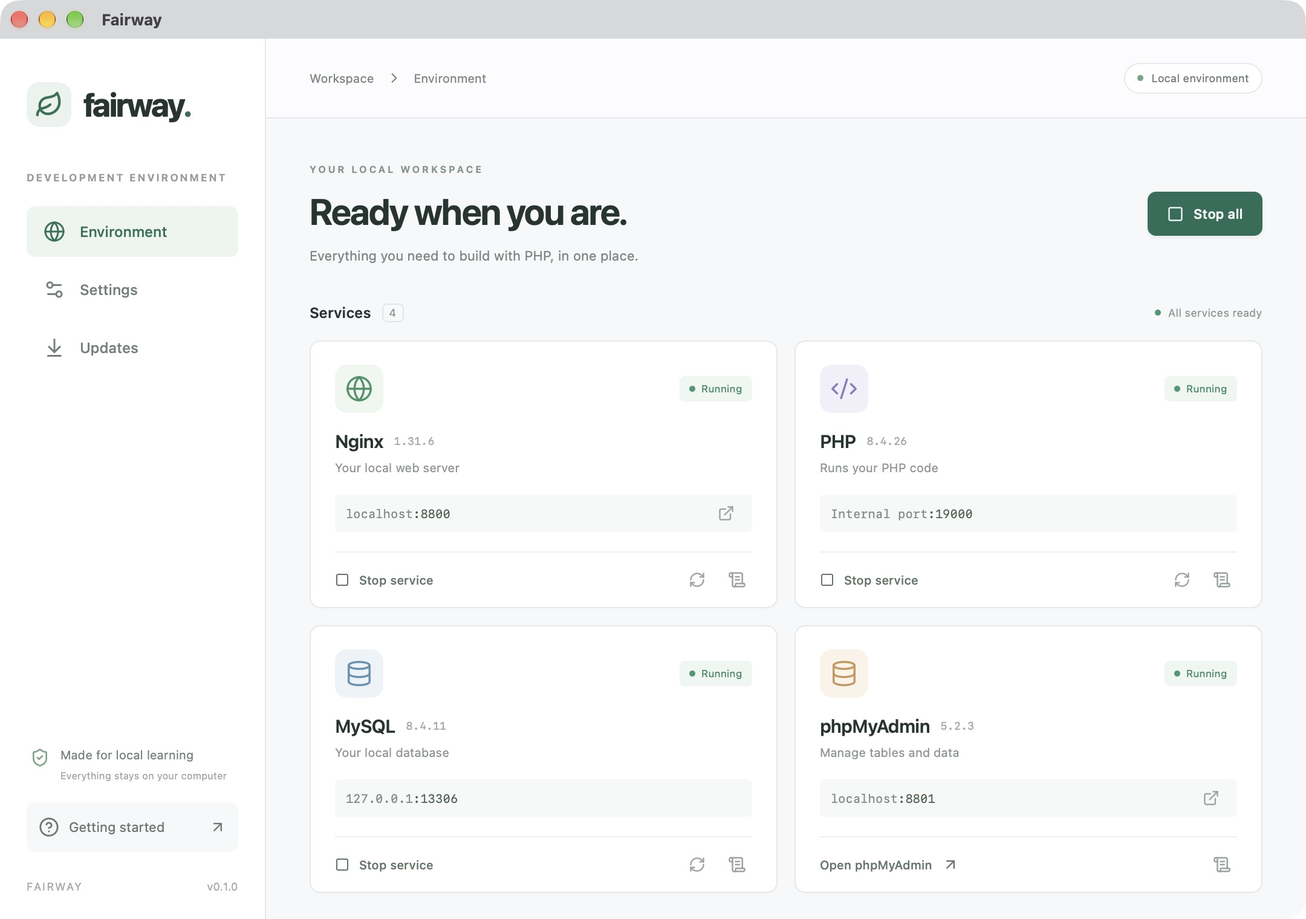
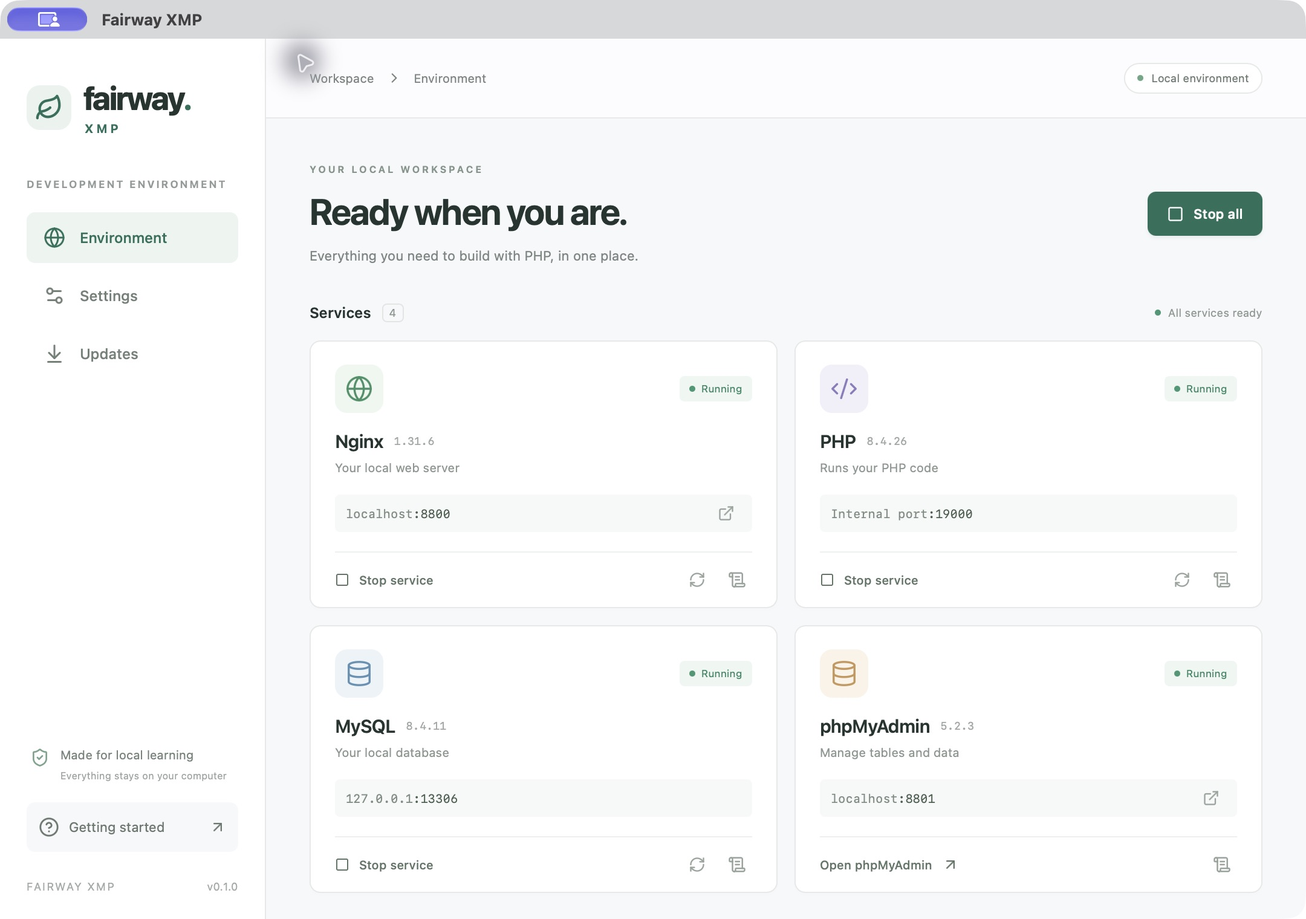
Use Fairway XMP branding on macOS and Windows

diff --git a/src/styles.css b/src/styles.css
@@ -1,3 +1,5 @@
 :root{font-family:Inter,-apple-system,BlinkMacSystemFont,"Segoe UI",sans-serif;color:#25342f;background:#f7f8fa;font-synthesis:none;font-size:13px;line-height:1.5;font-weight:400;--green:#23715b;--muted:#7b8581;--border:#e5e9e7}
 *{box-sizing:border-box}body{margin:0}button,input{font:inherit}button{cursor:pointer;display:inline-flex;align-items:center;justify-content:center;gap:8px;transition:background .15s,color .15s;border:0}button:disabled{opacity:.4;cursor:not-allowed}button:focus-visible,a:focus-visible,summary:focus-visible,input:focus-visible{outline:3px solid #91c7b4;outline-offset:3px}button:not(:disabled):hover{filter:brightness(.97)}a{color:inherit;text-decoration:none}h1,h2,h3,p{margin:0}h2{font-size:14px;font-weight:600}code{font:12px/1.7 ui-monospace,SFMono-Regular,Consolas,monospace}svg{flex-shrink:0}.app-shell{display:flex;min-height:100vh}.sidebar{width:220px;flex-shrink:0;background:#fff;border-right:1px solid var(--border);display:flex;flex-direction:column;padding:34px 22px 20px;position:fixed;height:100vh}.brand{display:flex;align-items:center;gap:10px;font-size:27px;font-weight:720;letter-spacing:-1.4px}.brand-mark{background:#eaf3ef;color:var(--green);width:37px;height:37px;display:grid;place-items:center;border-radius:11px;letter-spacing:0}.brand-period{color:var(--green)}.sidebar-label{font-size:8.5px;letter-spacing:1.3px;color:#929b97;margin:34px 0 17px;font-weight:650;white-space:nowrap}nav{display:flex;flex-direction:column;gap:6px}.nav-item{justify-content:flex-start;padding:12px 14px;border-radius:7px;background:transparent;color:#738078;font-weight:500;font-size:12px;gap:12px}.nav-item.active{background:#edf4f0;color:var(--green)}.sidebar-bottom{margin-top:auto}.local-badge{display:flex;gap:9px;color:#75827a;font-size:10px;padding:16px 3px;align-items:flex-start}.local-badge svg{color:#79a38d;margin-top:2px}.local-badge span{display:block;font-size:8px;margin-top:4px;color:#9aa29e}.help-button{width:100%;padding:12px 10px;background:#f7f8f9;border-radius:7px;color:#6a776f;font-size:11px;justify-content:flex-start}.help-button svg:last-child{margin-left:auto}.sidebar-footer{margin-top:22px;font-size:9px;letter-spacing:1px;color:#a3aaa6;display:flex;justify-content:space-between}.sidebar-footer span{letter-spacing:0}main{flex:1;margin-left:220px;min-width:0}.topbar{height:66px;border-bottom:1px solid var(--border);display:flex;align-items:center;justify-content:space-between;padding:0 36px;background:#ffffff9c;font-size:10px;color:#7b8581}.topbar>span:first-child{display:flex;align-items:center;gap:10px}.local-pill{display:flex;align-items:center;gap:7px;border:1px solid #e5eae7;border-radius:20px;background:#fff;padding:5px 10px;color:#6b7a71;font-size:9px}.local-pill>span{width:5px;height:5px;border-radius:50%;background:#69a786}.main-content{max-width:1100px;margin:0 auto;padding:36px}.page-heading{display:flex;align-items:center;justify-content:space-between;gap:20px;margin-bottom:30px}.eyebrow{font-size:8px;letter-spacing:1.7px;color:#82948a;font-weight:650;margin-bottom:9px}h1{font-size:30px;font-weight:650;letter-spacing:-1.1px;line-height:1.3}.page-heading p{font-size:11px;color:var(--muted);margin-top:9px}.primary{background:var(--green);color:white;border-radius:7px;padding:10px 16px;font-size:11px;font-weight:550;white-space:nowrap;min-height:36px;box-shadow:0 2px 3px #1e654c13}.secondary{background:#fff;border:1px solid #dfe5e1;color:#53665a;border-radius:6px;padding:8px 12px;font-size:10px;font-weight:550;min-height:33px;white-space:nowrap}.section-heading{display:flex;align-items:center;justify-content:space-between;margin-bottom:14px}.section-heading h2{display:flex;gap:9px;align-items:center;font-size:12px}.section-heading h2>span{font-size:9px;font-weight:400;border:1px solid #e1e6e3;border-radius:4px;padding:0 5px;color:#8b958f}.stack-status{display:flex;align-items:center;gap:6px;font-size:9px;color:#8d9791}.status-dot{display:inline-block;width:5px;height:5px;background:#afb9b2;border-radius:50%;flex-shrink:0}.status-dot.running{background:#3b9874}.status-dot.pending{background:#c79a44}.services-grid{display:grid;grid-template-columns:repeat(2,minmax(0,1fr));gap:14px}.service-card{background:#fff;border:1px solid var(--border);border-radius:9px;padding:19px 20px 0;box-shadow:0 2px 3px #253b2e02;overflow:hidden}.service-top{display:flex;align-items:center;justify-content:space-between;margin-bottom:12px}.service-icon{width:40px;height:40px;border-radius:10px;display:grid;place-items:center}.service-icon.green{background:#eef7f1;color:#409267}.service-icon.purple{background:#f1eff9;color:#8b7cbc}.service-icon.blue{background:#edf3f9;color:#6092b5}.service-icon.orange{background:#fbf3e9;color:#c79858}.status-label{font-size:8.5px;color:#909a94;background:#f5f6f7;padding:4px 8px;border-radius:4px;display:inline-flex;align-items:center;gap:5px;white-space:nowrap}.status-label.ready{color:#2b8764;background:#eff7f2}.status-label.pending{color:#ad8230;background:#fbf5e8}.service-name{display:flex;align-items:center;gap:9px}.service-name h3{font-size:15px;font-weight:600;letter-spacing:-.3px}.service-name>span{font:9px ui-monospace,monospace;color:#a0a7a3}.service-card>p{font-size:10px;color:#8c9690;margin-top:3px}.service-address{background:#f7f9f8;display:flex;align-items:center;justify-content:space-between;font:10px ui-monospace,monospace;color:#7d8c82;margin:15px 0 16px;height:31px;padding:0 9px;border-radius:4px}.address-port{color:#495f50}.icon-button{padding:4px;background:transparent;color:#98a39b;border-radius:4px;min-width:25px;min-height:25px}.service-actions{display:flex;align-items:center;border-top:1px solid #eef0ef;padding:10px 0;gap:8px}.service-start{justify-content:flex-start;margin-right:auto;background:transparent;color:#617568;font-size:10px;font-weight:500;padding:3px 0}.service-error{font-size:10px;color:#a15142;margin:0 0 12px;overflow-wrap:anywhere}.workspace-card{display:flex;align-items:center;gap:15px;background:#fff;border:1px solid var(--border);border-radius:9px;padding:21px;margin-top:22px}.workspace-icon{display:grid;place-items:center;width:45px;height:45px;border-radius:10px;background:#f1f4f2;color:#8da48f;flex-shrink:0}.workspace-details{flex:1;min-width:0}.workspace-details h2{font-size:12px}.workspace-details p{font-size:10px;color:#8b9790;margin:4px 0 7px}.workspace-details code{font-size:10px;color:#5e7866;display:block;overflow:hidden;text-overflow:ellipsis;white-space:nowrap}.bottom-grid{display:grid;grid-template-columns:1.08fr 1fr;gap:14px;margin-top:14px}.connection-card,.terminal-card{background:#fff;border:1px solid var(--border);border-radius:9px;padding:20px}.card-title{display:flex;align-items:center;justify-content:space-between;gap:12px;margin-bottom:15px}.card-title h2{display:flex;align-items:center;gap:8px;font-size:11px}.card-title h2 svg{color:#9bac9f}dl{margin:0}dl>div{display:flex;justify-content:space-between;align-items:center;gap:15px;margin-top:8px;font-size:10px}dt{color:#8a968e}dd{margin:0;color:#586d5e;font-family:ui-monospace,monospace;font-size:10px}.port-inline{color:#9aa69f}.text-link{margin-top:15px;background:transparent;font-size:9px;color:#6a8874;justify-content:flex-start;padding:0}.terminal-card{position:relative;background:#f0f5f2;overflow:hidden;border-color:#e2ebe5}.terminal-symbol{position:absolute;right:20px;top:20px;color:#a2b8aa}.terminal-card h2{font-size:12px;margin-top:2px}.terminal-card p{font-size:10px;color:#819589;line-height:1.8;margin:9px 0 16px}.terminal-card .secondary{background:#ffffff8a;border-color:#d7e4db}.content-footer{display:flex;align-items:center;justify-content:space-between;font-size:8px;color:#9aa59e;margin-top:25px}.content-footer>span{display:flex;align-items:center;gap:6px}.content-footer button{background:transparent;font-size:8px;color:#92a097;gap:7px}.notice,.preview-banner{padding:11px 14px;border:1px solid #dbe5df;border-radius:7px;background:#eef4f0;color:#52705e;display:flex;gap:9px;align-items:center;font-size:11px;margin-bottom:20px;overflow-wrap:anywhere}.notice>span{flex:1;white-space:pre-line}.notice button{background:transparent;color:inherit;padding:2px}.notice.error{background:#fff4ef;border-color:#ecd7cc;color:#9a5946}.notice.success{background:#eff7f1;border-color:#d5e9db;color:#367454}.preview-banner{background:#f0f3f8;border-color:#dfe5ef;color:#738199;font-size:10px;padding:8px 12px}.settings-card{background:#fff;border:1px solid var(--border);border-radius:9px;padding:24px;margin-bottom:18px}.settings-card>h2{margin-bottom:8px}.settings-card p{color:#809086;font-size:11px;line-height:1.8;margin:10px 0 18px}.port-fields{display:grid;grid-template-columns:repeat(3,1fr);gap:16px;margin:20px 0}.port-fields label{display:flex;flex-direction:column;gap:9px}.port-fields label>span,.advanced label>span{font-weight:550;font-size:11px}.port-fields small,.advanced small{display:block;color:#93a097;font-weight:400;font-size:9px;margin-top:3px}input{border:1px solid #dce5df;border-radius:6px;background:#f8faf9;padding:8px 10px;color:#486351;width:100%;font-family:ui-monospace,monospace;font-size:12px}input:disabled{color:#97a69c;background:#f4f6f5}.advanced{margin:0 0 20px;font-size:11px;color:#7a8a7f}.advanced summary{cursor:pointer;margin-bottom:13px}.advanced label{display:flex;gap:20px;align-items:center;justify-content:space-between}.advanced input{max-width:150px}.settings-card .settings-hint,.settings-hint{font-size:10px;color:#96a29b;line-height:1.7}.path-list>div{align-items:flex-start;flex-direction:column;gap:3px;margin-bottom:15px}.path-list dd{overflow-wrap:anywhere}.path-list dt{font-size:10px}.button-row{display:flex;gap:10px}.runtime-list{display:grid;grid-template-columns:1fr 1fr;gap:15px;padding:20px 0;border-top:1px solid #edf0ee;border-bottom:1px solid #edf0ee}.runtime-list>div{display:flex;justify-content:space-between;gap:10px;font-size:11px}.runtime-list code{font-size:10px;color:#85998c}.update-available{background:#eef6f0;border-radius:7px;padding:17px;margin-top:20px}.update-available h3{font-size:13px}.release-notes{white-space:pre-line}.operation-status{position:fixed;bottom:20px;left:calc(50% + 110px);transform:translateX(-50%);background:#253d31;color:#fff;padding:10px 17px;border-radius:30px;box-shadow:0 5px 20px #253d3120;font-size:11px;display:flex;align-items:center;gap:10px;z-index:15}.spin{animation:spin 1s linear infinite}@keyframes spin{to{transform:rotate(360deg)}}.modal-backdrop{position:fixed;inset:0;background:#18352955;backdrop-filter:blur(3px);z-index:20;display:grid;place-items:center;padding:30px}.modal{background:#fff;border-radius:12px;box-shadow:0 20px 60px #13291b30;padding:24px;max-width:720px;width:100%;max-height:85vh;overflow:auto}.modal .card-title h2{font-size:16px}.modal p{font-size:12px;color:#7b8c80;line-height:1.8;margin-top:15px}.log-output{background:#f3f6f4;border:1px solid #e5ece7;padding:15px;border-radius:7px;font:11px/1.8 ui-monospace,monospace;max-height:50vh;overflow:auto;white-space:pre-wrap;overflow-wrap:anywhere;color:#5f7566}.help-steps{font-size:12px;color:#6d8173;padding-left:23px;line-height:2.3}.help-steps code{background:#eff4f1;padding:2px 4px;border-radius:3px}@media(min-width:1250px){.main-content{padding:42px 48px}.services-grid{gap:18px}.service-card{padding:23px 25px 0}.service-address{margin-top:20px}.workspace-card{padding:25px}.bottom-grid>section{padding:24px}}@media(max-width:900px){.sidebar{width:180px;padding:27px 16px 16px}main{margin-left:180px}.main-content{padding:27px 24px}.topbar{padding:0 24px}.sidebar-label{font-size:7px;letter-spacing:1px}h1{font-size:26px}.service-card{padding:16px 16px 0}.local-badge span{font-size:7px}.page-heading p{font-size:10px}.operation-status{left:calc(50% + 90px)}}@media(max-width:650px){.sidebar{width:64px;padding:20px 9px}.brand{justify-content:center}.brand>span:last-child,.sidebar-label,.sidebar-bottom,.nav-item{font-size:0}.brand-mark{width:34px;height:34px}.sidebar nav{margin-top:30px}.nav-item{padding:12px;gap:0}.nav-item svg{width:19px}main{margin-left:64px}.main-content{padding:24px 18px}.services-grid,.bottom-grid{grid-template-columns:1fr}.local-pill{display:none}.page-heading{align-items:flex-start}.page-heading .primary{padding:9px 11px}.workspace-card{flex-wrap:wrap}.workspace-card .secondary{margin-left:60px}.port-fields{grid-template-columns:1fr}.content-footer{align-items:flex-start;gap:10px}.operation-status{left:calc(50% + 32px)}.topbar{padding:0 18px}.stack-status{font-size:8px}}
 @media(prefers-reduced-motion:reduce){*,*::before,*::after{animation-duration:.01ms!important;transition:none!important}}
+
+.brand-name{position:relative;line-height:1.1;padding-bottom:16px}.brand-edition{position:absolute;bottom:0;left:1px;font-size:10px;font-weight:650;letter-spacing:2.5px;color:var(--green)}@media(max-width:650px){.brand-edition{display:none}}

diff --git a/src/App.tsx b/src/App.tsx
@@ -110,8 +110,8 @@ export default function App() {
 
   return <div className="app-shell">
     <aside className="sidebar">
-      <a className="brand" href="#" onClick={event => { event.preventDefault(); setView('environment'); }} aria-label="Fairway home">
-        <span className="brand-mark"><Leaf size={23} strokeWidth={2.2} /></span><span>fairway<span className="brand-period">.</span></span>
+      <a className="brand" href="#" onClick={event => { event.preventDefault(); setView('environment'); }} aria-label="Fairway XMP home">
+        <span className="brand-mark"><Leaf size={23} strokeWidth={2.2} /></span><span className="brand-name">fairway<span className="brand-period">.</span><span className="brand-edition">XMP</span></span>
       </a>
       <div className="sidebar-label">DEVELOPMENT ENVIRONMENT</div>
       <nav aria-label="Main navigation">
@@ -122,7 +122,7 @@ export default function App() {
       <div className="sidebar-bottom">
         <div className="local-badge"><ShieldCheck size={16} /><div>Made for local learning<span>Everything stays on your computer</span></div></div>
         <button className="help-button" onClick={() => setHelp(true)}><CircleHelp size={17} />Getting started<ArrowUpRight size={14} /></button>
-        <div className="sidebar-footer">FAIRWAY <span>v{data.version}</span></div>
+        <div className="sidebar-footer">FAIRWAY XMP <span>v{data.version}</span></div>
       </div>
     </aside>
 
@@ -139,7 +139,7 @@ export default function App() {
             const service = data.services.find(s => s.id === id)!;
             return <ServiceCard key={id} service={service} version={versions?.[meta[id].version]} disabled={!usable} busy={!!busy} onAction={serviceAction} onOpen={open} onLog={showLog} />;
           })}</div>
-          {isDesktop && !data.runtimeReady && <div className="notice error" role="alert">Fairway’s PHP or database files are missing. Reinstall Fairway to restore them. Your projects and database data will be kept.</div>}
+          {isDesktop && !data.runtimeReady && <div className="notice error" role="alert">Fairway XMP’s PHP or database files are missing. Reinstall Fairway XMP to restore them. Your projects and database data will be kept.</div>}
 
           <div className="workspace-card">
             <div className="workspace-icon"><FolderOpen size={23} /></div>
@@ -166,15 +166,15 @@ export default function App() {
               <button className="primary" disabled={!isDesktop || anyRunning || !!busy} type="submit">Save ports</button>
             </form>
           </section>
-          <section className="settings-card"><div className="card-title"><h2>Command-line tools</h2><span className={`status-label ${data.pathInstalled ? 'ready' : ''}`}>{data.pathInstalled ? 'Enabled' : 'Not enabled'}</span></div><p>Add PHP and Composer to your user PATH. Restart existing terminals and VS Code after changes.</p><dl className="path-list"><div><dt>Current PHP</dt><dd>{data.pathPhp ?? 'Not found'}</dd></div><div><dt>Current Composer</dt><dd>{data.pathComposer ?? 'Not found'}</dd></div></dl><p className="settings-hint">If an older PHP installation appears here, close and reopen Fairway and your terminal. “Open terminal” uses Fairway’s PHP and Composer.</p><button className="secondary" disabled={!isDesktop || !!busy || (!data.pathInstalled && !data.runtimeReady)} onClick={() => { void run('Updating user PATH…', async () => {
+          <section className="settings-card"><div className="card-title"><h2>Command-line tools</h2><span className={`status-label ${data.pathInstalled ? 'ready' : ''}`}>{data.pathInstalled ? 'Enabled' : 'Not enabled'}</span></div><p>Add PHP and Composer to your user PATH. Restart existing terminals and VS Code after changes.</p><dl className="path-list"><div><dt>Current PHP</dt><dd>{data.pathPhp ?? 'Not found'}</dd></div><div><dt>Current Composer</dt><dd>{data.pathComposer ?? 'Not found'}</dd></div></dl><p className="settings-hint">If an older PHP installation appears here, close and reopen Fairway XMP and your terminal. “Open terminal” uses Fairway XMP’s PHP and Composer.</p><button className="secondary" disabled={!isDesktop || !!busy || (!data.pathInstalled && !data.runtimeReady)} onClick={() => { void run('Updating user PATH…', async () => {
             setData(await invoke<Snapshot>('cli_integration', { enabled: !data.pathInstalled })); setNotice({ kind: 'success', text: 'Command-line integration updated. Reopen your terminals and VS Code.' });
           }); }}>{data.pathInstalled ? 'Remove from user PATH' : 'Enable PHP and Composer'}</button></section>
           <section className="settings-card"><h2>Your files</h2><dl className="path-list"><div><dt>Document root</dt><dd>{data.documentRoot}</dd></div><div><dt>Settings and database data</dt><dd>{data.dataDir}</dd></div></dl><div className="button-row"><button className="secondary" disabled={!isDesktop || !!busy} onClick={() => open('logs')}><ScrollText size={15} />Open logs</button><button className="secondary" disabled={!isDesktop || !!busy} onClick={() => open('backups')}><FolderOpen size={15} />Open backups</button></div></section>
         </>}
 
         {view === 'updates' && <>
-          <div className="page-heading"><div><div className="eyebrow">KEEP YOUR TOOLS CURRENT</div><h1>A dependable environment.</h1><p>Tested updates for Fairway and your bundled tools.</p></div></div>
-          <section className="settings-card"><div className="card-title"><h2>Fairway {data.version}</h2><span className="status-label">Installed version</span></div><div className="runtime-list">{['php', 'nginx', 'mysql', 'phpmyadmin', 'composer'].map(name => <div key={name}><span>{name === 'php' ? 'PHP' : name === 'mysql' ? 'MySQL' : name === 'phpmyadmin' ? 'phpMyAdmin' : name === 'nginx' ? 'Nginx' : 'Composer'}</span><code>{versions?.[name] ?? 'Unavailable'}</code></div>)}</div><p>Updates are installed when you choose. Your projects and database data are preserved. Before installation, Fairway backs up student databases and stops its services.</p><button className="primary" disabled={!isDesktop || !!busy} onClick={() => { void run('Checking for updates…', async () => {
+          <div className="page-heading"><div><div className="eyebrow">KEEP YOUR TOOLS CURRENT</div><h1>A dependable environment.</h1><p>Tested updates for Fairway XMP and your bundled tools.</p></div></div>
+          <section className="settings-card"><div className="card-title"><h2>Fairway XMP {data.version}</h2><span className="status-label">Installed version</span></div><div className="runtime-list">{['php', 'nginx', 'mysql', 'phpmyadmin', 'composer'].map(name => <div key={name}><span>{name === 'php' ? 'PHP' : name === 'mysql' ? 'MySQL' : name === 'phpmyadmin' ? 'phpMyAdmin' : name === 'nginx' ? 'Nginx' : 'Composer'}</span><code>{versions?.[name] ?? 'Unavailable'}</code></div>)}</div><p>Updates are installed when you choose. Your projects and database data are preserved. Before installation, Fairway XMP backs up student databases and stops its services.</p><button className="primary" disabled={!isDesktop || !!busy} onClick={() => { void run('Checking for updates…', async () => {
             const result = await invoke<UpdateInfo>('check_update'); setUpdate(result);
             if (result.configured && !result.version) setNotice({ kind: 'success', text: 'You’re using the latest available release.' });
           }); }}><RefreshCw size={15} />Check for updates</button>
@@ -188,7 +188,7 @@ export default function App() {
     </main>
 
     {log && <Modal title={`${meta[log.service].name} logs`} onClose={() => setLog(null)}><pre className="log-output">{log.text}</pre><button className="secondary" disabled={!!busy} onClick={() => showLog(log.service)}><RefreshCw size={15} />Refresh log</button></Modal>}
-    {help && <Modal title="Your first PHP project" onClose={() => setHelp(false)}><ol className="help-steps"><li>Click <strong>Start all</strong> and wait for the services to become ready.</li><li>Open your coursework folder: <code>fairway/www</code>.</li><li>Create a folder called <code>lesson-01</code> and add an <code>index.php</code> file.</li><li>Open <code>http://127.0.0.1:{data.ports.website}/lesson-01/</code> in your browser.</li></ol><p>Log into phpMyAdmin with username <code>fairway</code> and password <code>fairway</code>. Reopen your terminal after installation to use PHP and Composer. If they are unavailable, enable them in Settings.</p><p className="settings-hint">Quitting Fairway stops its services. Minimize the window to keep working.</p></Modal>}
+    {help && <Modal title="Your first PHP project" onClose={() => setHelp(false)}><ol className="help-steps"><li>Click <strong>Start all</strong> and wait for the services to become ready.</li><li>Open your coursework folder: <code>fairway/www</code>.</li><li>Create a folder called <code>lesson-01</code> and add an <code>index.php</code> file.</li><li>Open <code>http://127.0.0.1:{data.ports.website}/lesson-01/</code> in your browser.</li></ol><p>Log into phpMyAdmin with username <code>fairway</code> and password <code>fairway</code>. Reopen your terminal after installation to use PHP and Composer. If they are unavailable, enable them in Settings.</p><p className="settings-hint">Quitting Fairway XMP stops its services. Minimize the window to keep working.</p></Modal>}
   </div>;
 }
 

diff --git a/src/bridge.ts b/src/bridge.ts
@@ -21,13 +21,13 @@ export const preview: Snapshot = {
     { id: 'mysql', running: false, ready: false, port: 13306, pid: null, message: null },
     { id: 'phpmyadmin', running: false, ready: false, port: 8801, pid: null, message: null },
   ],
-  documentRoot: '~/fairway/www', dataDir: 'Fairway application data',
+  documentRoot: '~/fairway/www', dataDir: 'Fairway XMP application data',
   runtimeReady: false, runtimeVersions: null, pathInstalled: false,
   pathPhp: null, pathComposer: null, version: '0.1.0',
 };
 
 export function invoke<T>(command: string, args?: Record<string, unknown>): Promise<T> {
-  if (!window.__TAURI_INTERNALS__) return Promise.reject(new Error('Open the Fairway desktop app to use this control.'));
+  if (!window.__TAURI_INTERNALS__) return Promise.reject(new Error('Open the Fairway XMP desktop app to use this control.'));
   return window.__TAURI_INTERNALS__.invoke<T>(command, args);
 }
 

diff --git a/index.html b/index.html
@@ -4,7 +4,7 @@
     <meta charset="UTF-8" />
     <meta name="viewport" content="width=device-width, initial-scale=1.0" />
     <meta name="theme-color" content="#f5f6f8" />
-    <title>Fairway — Development Environment</title>
+    <title>Fairway XMP — Development Environment</title>
   </head>
   <body>
     <div id="root"></div>

diff --git a/src-tauri/src/desktop.rs b/src-tauri/src/desktop.rs
@@ -23,7 +23,7 @@ async fn access<T: Send + 'static>(
     tauri::async_runtime::spawn_blocking(move || {
         let mut manager = state
             .lock()
-            .map_err(|_| "The service manager is unavailable. Restart Fairway.")?;
+            .map_err(|_| "The service manager is unavailable. Restart Fairway XMP.")?;
         f(&mut manager)
     })
     .await
@@ -207,7 +207,7 @@ pub fn maintenance(args: &[String]) -> Result<bool> {
                 })?;
                 if crate::process::pid_alive(pid) {
                     return Err(
-                        "Open Fairway, stop all services, and quit before uninstalling.".into(),
+                        "Open Fairway XMP, stop all services, and quit before uninstalling.".into(),
                     );
                 }
                 std::fs::remove_file(path).map_err(|e| e.to_string())?;
@@ -221,7 +221,7 @@ pub fn maintenance(args: &[String]) -> Result<bool> {
             integration::remove(&layout)?;
             // Refuse cleanup while an owned server may still be using the data directory.
             if layout.data.join("mysql.pid").exists() || layout.data.join("nginx.pid").exists() {
-                return Err("Open Fairway and stop all services before deleting data.".into());
+                return Err("Open Fairway XMP and stop all services before deleting data.".into());
             }
             if layout.data.exists() {
                 std::fs::remove_dir_all(&layout.data).map_err(|e| e.to_string())?;
@@ -322,7 +322,7 @@ pub fn run() {
             }
         })
         .build(tauri::generate_context!())
-        .expect("Fairway could not initialize");
+        .expect("Fairway XMP could not initialize");
     app.run(move |app, event| {
         if let tauri::RunEvent::ExitRequested { api, code, .. } = event {
             if code == Some(tauri::RESTART_EXIT_CODE) {

diff --git a/src-tauri/resources/welcome.php b/src-tauri/resources/welcome.php
@@ -1,4 +1,4 @@
 <!doctype html>
-<html lang="en"><head><meta charset="utf-8"><meta name="viewport" content="width=device-width,initial-scale=1"><title>Welcome to Fairway</title>
+<html lang="en"><head><meta charset="utf-8"><meta name="viewport" content="width=device-width,initial-scale=1"><title>Welcome to Fairway XMP</title>
 <style>body{font:17px/1.7 system-ui;background:#f5f6f8;color:#182431;margin:0;padding:10vh 8vw}main{max-width:680px;margin:auto}b{color:#16765c}h1{font-size:48px;line-height:1.1;letter-spacing:-2px}code{background:#e6ece9;padding:3px 7px;border-radius:5px}small{color:#68756e}</style></head>
 <body><main><b>fairway / www</b><h1>Your environment<br>is ready.</h1><p>Create a folder in <code>fairway/www</code>, add an <code>index.php</code>, and open that folder’s name in your browser.</p><p>For example: <code>http://127.0.0.1:<?= (int) $_SERVER['SERVER_PORT'] ?>/lesson-01/</code></p><small>PHP <?= htmlspecialchars(PHP_VERSION, ENT_QUOTES, 'UTF-8') ?> · Welcome to your first project.</small></main></body></html>

diff --git a/src-tauri/src/integration.rs b/src-tauri/src/integration.rs
@@ -203,10 +203,9 @@ fn read_profile(file: &Path) -> Result<String> {
 pub fn profile_with_block(previous: &str, block: Option<&str>) -> Result<String> {
     let mut text = previous.to_string();
     while let Some(start) = text.find(BEGIN) {
-        let end = text[start..]
-            .find(END)
-            .ok_or("The existing Fairway PATH block is incomplete; repair it before continuing.")?
-            + start
+        let end = text[start..].find(END).ok_or(
+            "The existing Fairway XMP PATH block is incomplete; repair it before continuing.",
+        )? + start
             + END.len();
         let end = if text[end..].starts_with('\n') {
             end + 1

diff --git a/src-tauri/src/manager.rs b/src-tauri/src/manager.rs
@@ -183,7 +183,7 @@ impl Manager {
 
     pub fn preflight(&self, ids: &[&str]) -> Result<()> {
         if !self.runtime_ready() {
-            return Err("Fairway’s PHP or database files are missing or incomplete. Reinstall Fairway to restore them; your projects and database data will be kept.".into());
+            return Err("Fairway XMP’s PHP or database files are missing or incomplete. Reinstall Fairway XMP to restore them; your projects and database data will be kept.".into());
         }
         let excluded = [
             self.ports.website,

diff --git a/README.md b/README.md
@@ -2,7 +2,7 @@
 
 A simple PHP development environment for Windows and Apple Silicon Macs. Start your web server and database from one control panel, then use your usual editor and terminal. No Docker setup required.
 
-![Fairway control panel with PHP, Nginx, MySQL, and phpMyAdmin running](docs/images/control-panel.png)
+![Fairway XMP control panel with PHP, Nginx, MySQL, and phpMyAdmin running](docs/images/control-panel.png)
 
 ## Downloads
 
@@ -32,14 +32,14 @@ Intel Macs and Linux are not supported. Install Node.js separately if your cours
 
 Once an installer is available:
 
-1. Install Fairway, then reopen your terminal and VS Code.
-2. Open Fairway and click **Start all**. Wait for **All services ready**.
+1. Install Fairway XMP, then reopen your terminal and VS Code.
+2. Open Fairway XMP and click **Start all**. Wait for **All services ready**.
 3. Click **Open folder**. Inside `fairway/www`, create a folder named `lesson-01`.
 4. Add an `index.php` file:
 
    ```php
    <?php
-   echo 'Hello from Fairway!';
+   echo 'Hello from Fairway XMP!';
    ```
 
 5. Open [http://127.0.0.1:8800/lesson-01/](http://127.0.0.1:8800/lesson-01/) in your browser.
@@ -67,7 +67,7 @@ Use these settings in your PHP projects:
 | Username | `fairway` |
 | Password | `fairway` |
 
-You can create additional databases in phpMyAdmin. These credentials are for your local lessons; Fairway’s services accept connections from your computer only.
+You can create additional databases in phpMyAdmin. These credentials are for your local lessons; Fairway XMP’s services accept connections from your computer only.
 
 Click **Back up databases** to save a SQL backup. Find saved backups under **Settings → Open backups**. You can import a backup through phpMyAdmin.
 
@@ -80,18 +80,18 @@ Click **Back up databases** to save a SQL backup. Find saved backups under **Set
 | MySQL | `13306` |
 | PHP’s internal connection to Nginx | `19000` |
 
-If another application is using a port, Fairway explains the conflict. Stop all services, change the port in **Settings**, and save. Saved ports stay the same when you reopen Fairway. Update your project’s database connection settings if you change the MySQL port.
+If another application is using a port, Fairway XMP explains the conflict. Stop all services, change the port in **Settings**, and save. Saved ports stay the same when you reopen Fairway XMP. Update your project’s database connection settings if you change the MySQL port.
 
 ## Finishing a lesson
 
-Click **Stop all** or quit Fairway to stop its services. Minimize the window if you want them to keep running.
+Click **Stop all** or quit Fairway XMP to stop its services. Minimize the window if you want them to keep running.
 
-Use **Updates** to check for a new version. Updates preserve your projects and database data; before an in-app update, Fairway backs up your databases and stops services.
+Use **Updates** to check for a new version. Updates preserve your projects and database data; before an in-app update, Fairway XMP backs up your databases and stops services.
 
-To uninstall, use Windows’ installed-apps settings or **Uninstall Fairway.command** inside the macOS application bundle. The uninstaller removes Fairway’s PHP and Composer PATH entries. Your projects and database data are kept by default; deleting them is a separate choice.
+To uninstall, use Windows’ installed-apps settings or **Uninstall Fairway XMP.command** inside the macOS application bundle. The uninstaller removes Fairway XMP’s PHP and Composer PATH entries. Your projects and database data are kept by default; deleting them is a separate choice.
 
 ## Help and license
 
-For problems or suggestions, [open an issue](https://github.com/eimg/fairway-xmp/issues). Include your operating system, what you tried, and any error shown in Fairway.
+For problems or suggestions, [open an issue](https://github.com/eimg/fairway-xmp/issues). Include your operating system, what you tried, and any error shown in Fairway XMP.
 
-Fairway’s application code is available under the [MIT license](LICENSE). Included tools have [their own licenses](THIRD_PARTY_NOTICES.md). To work on Fairway itself, see [Contributing](CONTRIBUTING.md).
+Fairway XMP’s application code is available under the [MIT license](LICENSE). Included tools have [their own licenses](THIRD_PARTY_NOTICES.md). To work on Fairway XMP itself, see [Contributing](CONTRIBUTING.md).

diff --git a/PROJECT_SPEC.md b/PROJECT_SPEC.md
@@ -1,6 +1,8 @@
-# Fairway development environment
+# Fairway XMP development environment
 
 ## Product
+
+Display name: **Fairway XMP** on Windows and macOS. The green application mark is shared by the app, Windows installer, and uninstaller. The macOS bundle is `/Applications/Fairway XMP.app`; installer hooks and removal target only that bundle.
 
 A classroom PHP development environment with one consistent desktop control panel.
 Supported release targets: Windows 10 22H2 / Windows 11 x64, and macOS 15+ Apple Silicon.
@@ -31,7 +33,7 @@ The application tracks processes it starts. Nginx startup starts PHP; stopping P
 
 Minimizing leaves services running. Closing the window stops all; if graceful shutdown fails, the window stays open with the reason. Services do not start at login or automatically at app launch.
 
-Status distinguishes an owned live process from a ready endpoint. Website/phpMyAdmin listeners are checked against a Fairway health endpoint. Unexpected process exits surface a log hint.
+Status distinguishes an owned live process from a ready endpoint. Website/phpMyAdmin listeners are checked against a Fairway XMP health endpoint. Unexpected process exits surface a log hint.
 
 ## Database
 
@@ -55,7 +57,7 @@ Uninstall requires stopped services and preserves coursework/data by default. De
 
 ## Updates
 
-The source repository and future download location are `https://github.com/eimg/fairway-xmp`. Unsigned builds offer links to the releases page. The default signed-update endpoint is `https://github.com/eimg/fairway-xmp/releases/latest/download/latest.json`. Release overlays configure the HTTPS endpoint and Tauri public verification key; signed artifacts are mandatory for the updater. Checks are student-triggered. Before installation, Fairway starts MySQL if necessary to make a student-database backup, then gracefully stops services. Runtime and UI are updated together. Only tested updates within the pinned MySQL 8.4 family are in scope; major database changes require a separate reviewed migration strategy.
+The source repository and future download location are `https://github.com/eimg/fairway-xmp`. Unsigned builds offer links to the releases page. The default signed-update endpoint is `https://github.com/eimg/fairway-xmp/releases/latest/download/latest.json`. Release overlays configure the HTTPS endpoint and Tauri public verification key; signed artifacts are mandatory for the updater. Checks are student-triggered. Before installation, Fairway XMP starts MySQL if necessary to make a student-database backup, then gracefully stops services. Runtime and UI are updated together. Only tested updates within the pinned MySQL 8.4 family are in scope; major database changes require a separate reviewed migration strategy.
 
 Installer upgrades must also preserve data and coursework. Release testing must verify clean-machine operation without Homebrew, OS signing/notarization, Windows prerequisites, non-ASCII/space-containing user paths, uninstall, update recovery, and database compatibility. A successful compile is not proof of these checks.
 

diff --git a/THIRD_PARTY_NOTICES.md b/THIRD_PARTY_NOTICES.md
@@ -1,6 +1,6 @@
 # Third-party software
 
-Fairway bundles independently licensed software. The Fairway application code is MIT licensed; that license does not replace the licenses of bundled components.
+Fairway XMP bundles independently licensed software. The Fairway XMP application code is MIT licensed; that license does not replace the licenses of bundled components.
 
 | Component | License / upstream |
 |---|---|

diff --git a/CONTRIBUTING.md b/CONTRIBUTING.md
@@ -1,4 +1,4 @@
-# Contributing to Fairway
+# Contributing to Fairway XMP
 
 The application uses Tauri 2, Rust, React, and TypeScript. Source checks run on Windows and macOS. A separate manual workflow builds Windows test installers as temporary Actions artifacts; CI does not publish GitHub Releases.
 
